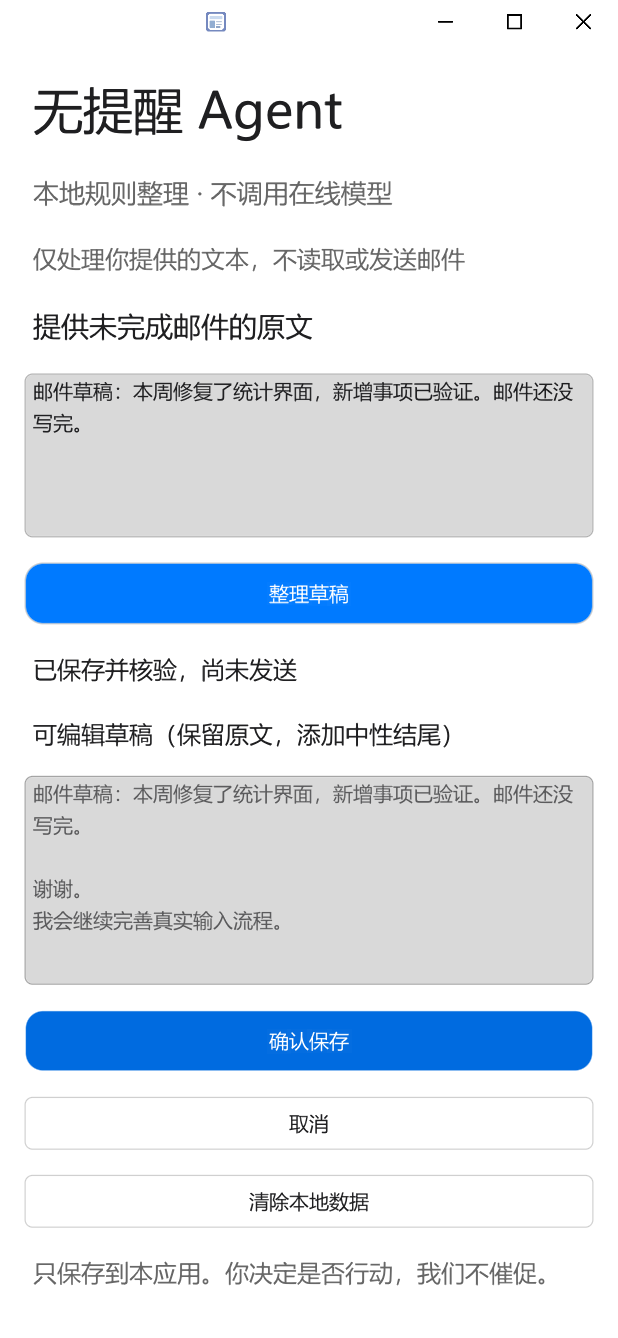
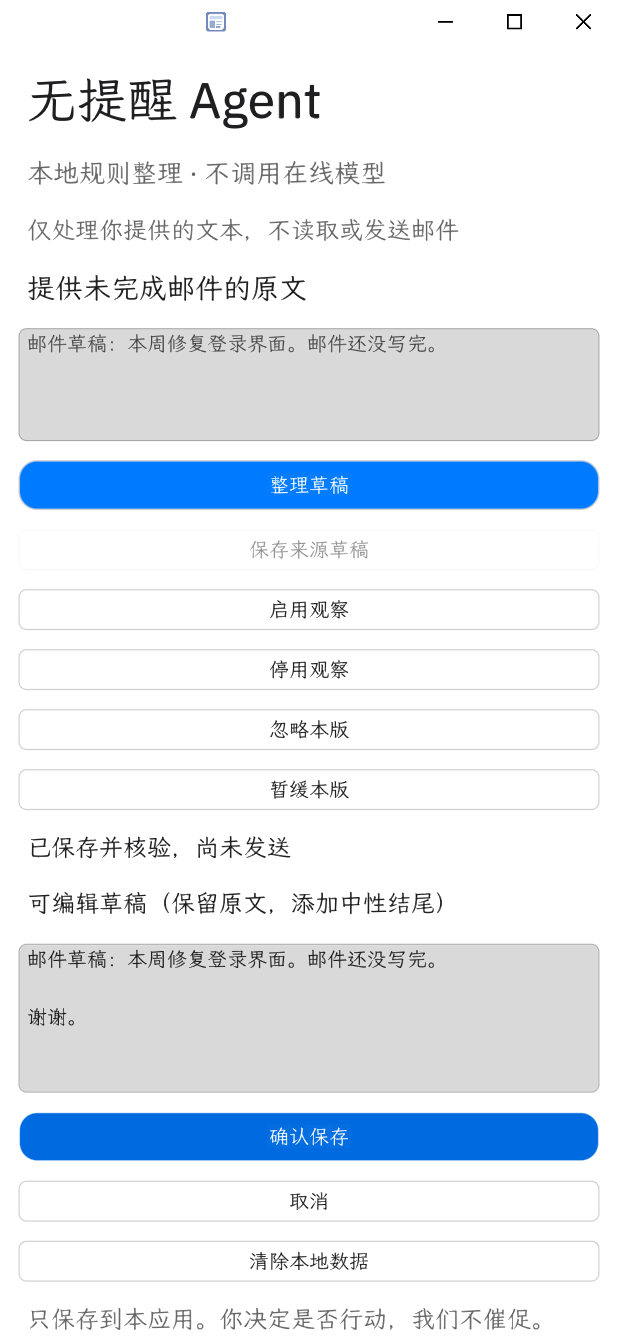
Add opt-in app draft processing with persistent revision suppression

diff --git a/PRIVACY.md b/PRIVACY.md
@@ -2,10 +2,12 @@
 
 当前本地规则版本只处理你主动输入的文本，不读取邮箱、剪贴板、外部账户或其他文件，不发送邮件，不调用在线模型或建立网络连接。规则根据邮件和未完成关键词判断是否需要整理；不构成对你的真实意图的保证。
 
-点击“整理草稿”只在内存中生成可编辑文本。只有点击“确认保存”才保存原文与草稿，并读回核验。它没有发送邮件。“取消”放弃本次编辑，但不会删除以前确认保存的草稿。
+点击“整理草稿”只在内存中生成可编辑文本。“保存来源草稿”单独保存你输入的原文，不代表启用观察；必须另点“启用观察”。只在应用启动、显式启用及保存新来源时处理本应用草稿，不扫描外部文件，不在应用关闭后运行。“停用观察”撤销后续处理；忽略、暂缓和已处理版本不会在重启后重复建议。暂缓当前实现为等待新内容，无定时催促；可以主动“整理草稿”重新处理。
 
-应用申请 storage 权限。默认启动器的数据位置为项目 `.local-state/no-reminder-agent/`；使用其他宿主或 `--app-data` 时以该宿主的数据隔离目录为准。当前文件为 `user-draft.txt` 和 `draft-state.json`，后一文件包含来源原文与草稿，以支持恢复。
+只有点击“确认保存”才写入结果草稿并读回核验。它没有发送邮件。“取消”放弃本次编辑；观察建议的取消同时忽略该来源版本，不会删除以前确认保存的草稿。写入授权状态失败时有错误提示，需重试确保状态持久化。
 
-“清除本地数据”仅删除上述两份当前草稿文件，核对删除结果后清空界面；不会删除其他应用数据或旧版本演示事项文件。文件是本机明文，拥有该目录权限的人可能读取，请勿输入不适合保存在本机的内容。常规运行日志不主动记录原文；不要向支持渠道上传含私人内容的界面截图或文件。
+应用申请 storage 权限。默认启动器的数据位置为项目 `.local-state/no-reminder-agent/`；使用其他宿主或 `--app-data` 时以该宿主的数据隔离目录为准。文件为 `user-draft.txt`、`draft-state.json` 和 `source-draft.json`；来源文件包含原文、内容版本、启用权限、忽略/暂缓/处理版本，另两份保存已确认结果。
+
+“清除本地数据”仅删除上述三份当前草稿文件，并清除观察授权；核对删除结果后清空界面，不会删除其他应用数据或旧版本演示事项文件。文件是本机明文，拥有该目录权限的人可能读取，请勿输入不适合保存在本机的内容。常规运行日志不主动记录原文；不要向支持渠道上传含私人内容的界面截图或文件。
 
 未来任何在线模型、外部数据源或分享功能需要另行说明处理范围并获得相应授权。当前版本不具备这些能力。问题反馈：[项目 Issues](https://github.com/nineanswerer/octo/issues)。

diff --git a/validation/OBSERVER.md b/validation/OBSERVER.md
@@ -1,0 +1,11 @@
+# Application-owned draft observation 0.3.0
+
+Only app-owned saved source text is observed. Save source first; saving is not consent. Explicitly enable processing, then source saves and app startup can produce one local-rule suggestion without repasting. Disable stops processing. Source text changes invalidate pending actions. Content equality preserves revision; new content advances it.
+
+Ignored, deferred and handled revisions persist and suppress repeated suggestions across restart. Deferral currently lasts until new content, without a scheduled notification; manual organize is an explicit way to process again. Cancellation of an observed suggestion suppresses its revision. Confirmed output alone writes the result; actual readback verifies success. Clearing removes the three fixed owned files and revokes consent.
+
+No filesystem watcher, email access, background daemon, semantic model or network grant. Rule quality remains limited to keywords and preserving input with a neutral ending. This is the first consent/version state implementation, not complete autonomous task understanding.
+
+Native host 6b9f33ff063c8afe94bec425e890fbc77b25364254fabf86300e3273f3c42da8: 17 observation/permission/version cases and 12 existing manual cases passed. Results: observer-results.json, observer-manual-results.json. Malformed source state does not grant permission. Windows only.
+
+Development record: MiniMax task MCP-18b0cd49-85e1-470e-ac87-172d072a5b7d returned source with defects independently rejected by both Linux and desktop outer reviews. Desktop outer applied a deterministic corrected candidate and ran native acceptance. The model's exit status was not treated as acceptance. Historical 0.2.0 video remains historical and must not be presented as a 0.3.0 recording.

diff --git a/README.md b/README.md
@@ -1,3 +1,7 @@
+# Current 0.3.0 update
+
+Explicit opt-in app-owned draft processing with source revisions, ignore/defer and duplicate suppression is now implemented. See [observation behavior and validation](validation/OBSERVER.md). No online model or external/background observation. The earlier 0.2.0 recording below is historical.
+
 # No-Reminder Agent 0.2.0
 
 Windows OctoSense local draft helper. Paste an unfinished email, organize, edit and confirm saving. Local keyword rules preserve the original text and add a neutral closing. Saved files are read back and restored on restart.

diff --git a/GATE_STATUS.md b/GATE_STATUS.md
@@ -1,3 +1,6 @@
+Current 0.3.0: new pinned hub.exe check --allow-unsigned PASSED. Observation 17 + manual 12 native checks passed; see validation/OBSERVER.md. Unsigned, Windows only, no official acceptance.
+
+Historical status below:
 # Gate status — 2026-10-03
 
 Version 0.2.0 passes the local Windows command `hub.exe check bundle --allow-unsigned`. It is unsigned and is refused when unsigned bundles are not allowed. Storage only, no agent or network grants.

diff --git a/README.zh-CN.md b/README.zh-CN.md
@@ -1,3 +1,5 @@
+[Current 0.3.0 behavior and 29 passed checks](validation/OBSERVER.md). Historical 0.2.0 video below.
+
 # 南下 · 无提醒 Agent 0.2.0
 
 提供未完成邮件原文，应用以本地规则整理可编辑草稿；确认后保存并读回核验，重启恢复一致的草稿。取消不会覆盖以前保存的内容。
